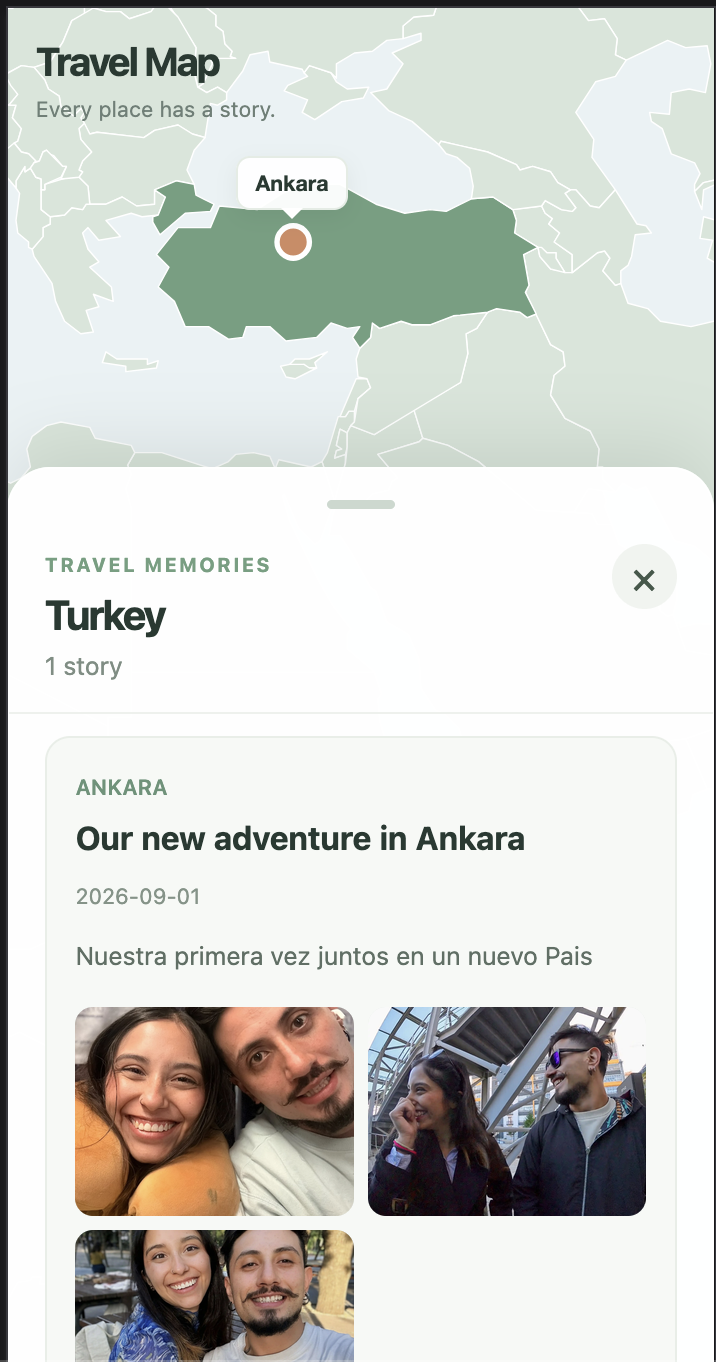
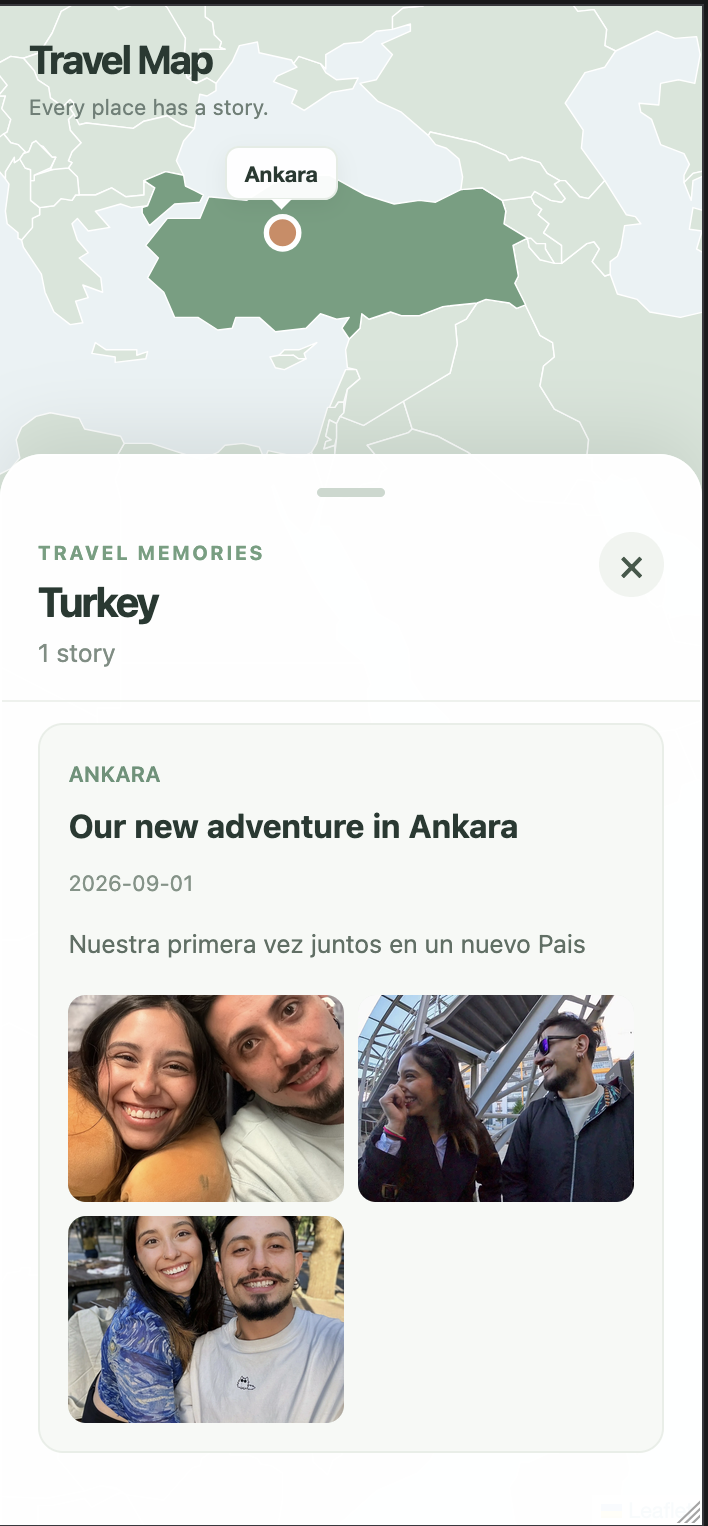
Ajustes al Readme

diff --git a/README.md b/README.md
@@ -16,9 +16,31 @@
 
 ## ✨ See it in action
 
-<!-- Add actual screenshots before publishing these image links. -->
-![Travel Map desktop world view](docs/screenshots/v0.1.0/world-desktop.webp)
-![Travel Map mobile memories sheet](docs/screenshots/v0.1.0/memories-mobile.webp)
+
+<h2>✨ See it in action</h2>
+
+<h3>🌍 Explore the world</h3>
+
+<p align="center">
+  <img
+    src="docs/screenshots/v0.1.0/world-desktop.webp"
+    alt="Interactive world map"
+    width="100%"
+  />
+</p>
+
+<details>
+  <summary>📸 Explore more screenshots</summary>
+  <br>
+  <p align="center">
+    <img
+      src="docs/screenshots/v0.1.0/memories-mobile.webp"
+      alt="Mobile travel memories"
+      width="320"
+    />
+  </p>
+</details>
+
 
 **[Explore the live application →](https://travel-map.jhonjaner11.workers.dev)**
 
